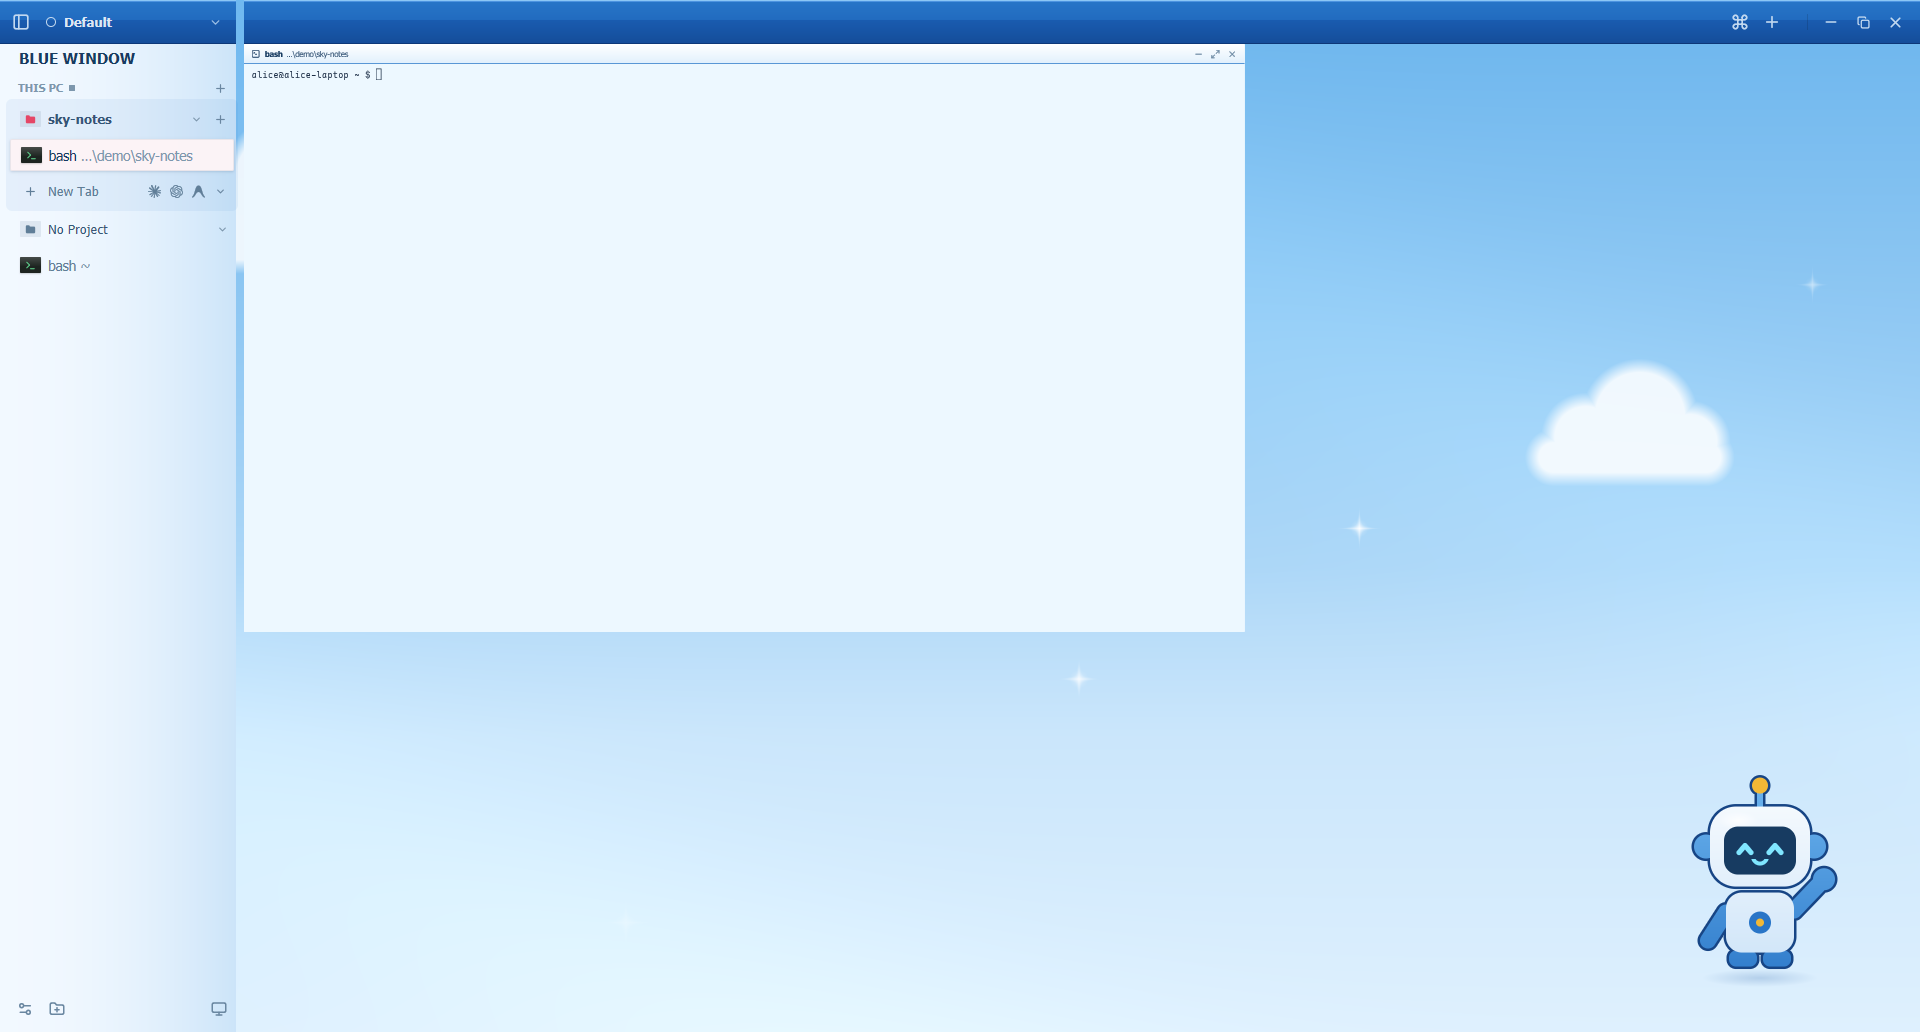
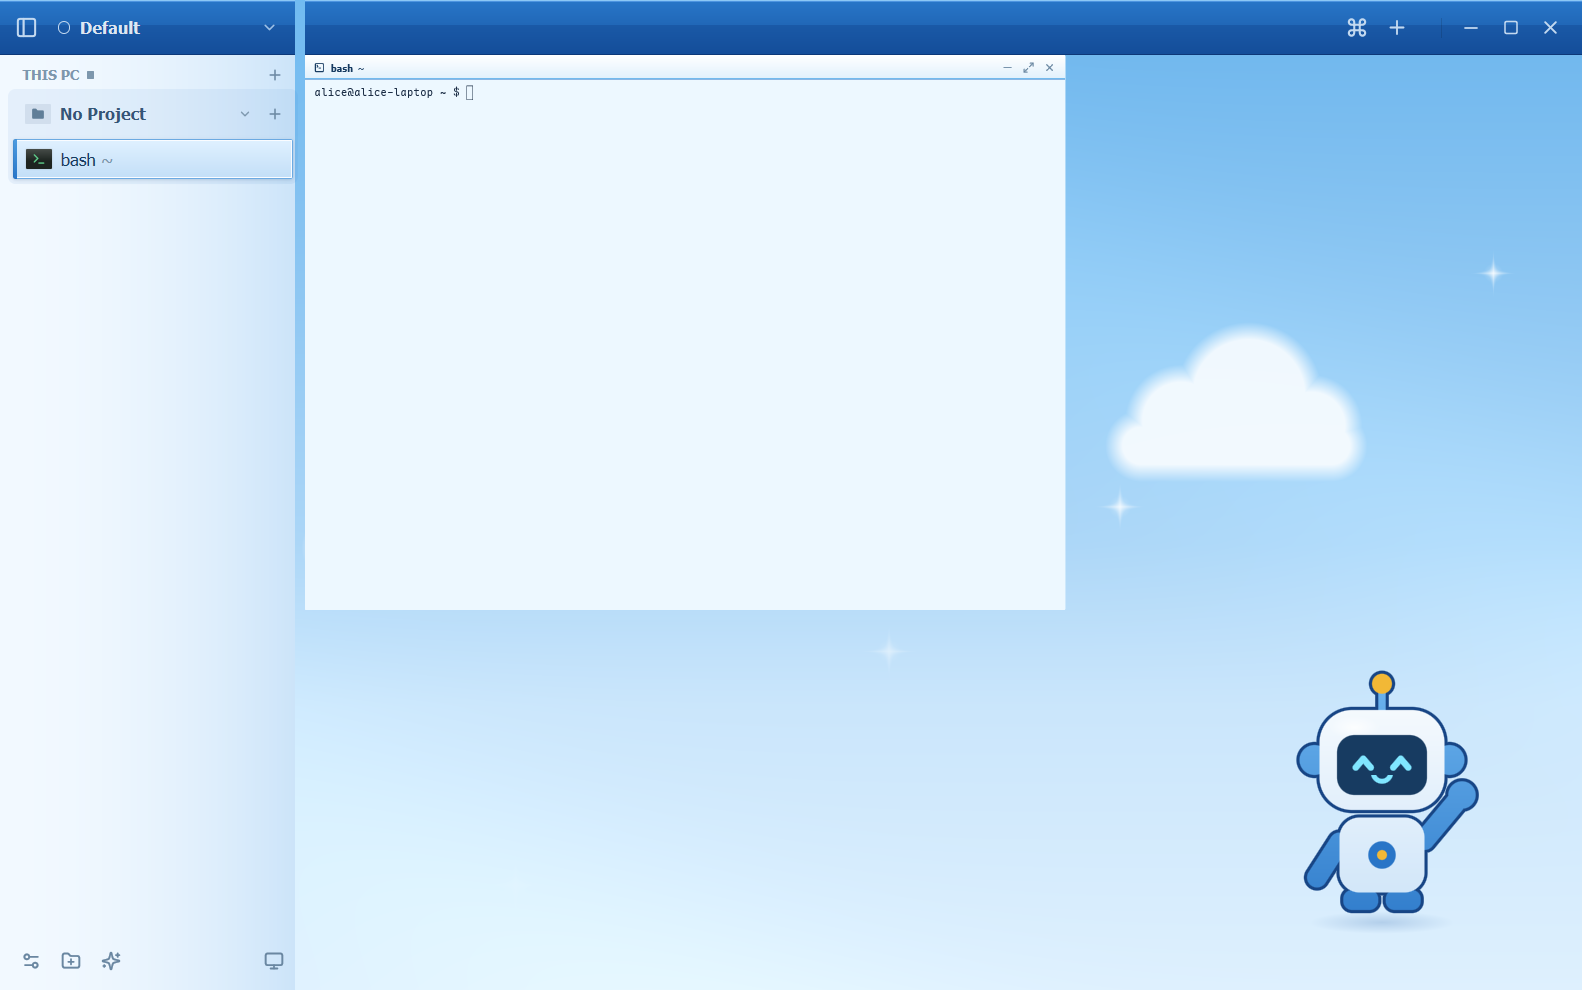
chore: require GoRex 0.62.0, drop brand, and update the screenshots
GoRex 0.62.0 removed the brand key (si-mods/gorex#1120) and drops it with a warning. Install from the registry so updates work. The screenshots show the shader API 2 look.

Changed region(s): [[0.0, 0.0, 1.0, 0.6667], [0.8053, 0.6667, 0.9602, 0.9697], [0.0, 0.9697, 0.031, 1.0]]

diff --git a/README.md b/README.md
@@ -4,8 +4,6 @@ A theme pack for [GoRex](https://github.com/si-mods/gorex): a 2007 desktop messe
 
 ![Blue Window](screenshots/canvas-light.png)
 
-![Blue Window](screenshots/tiled-light.png)
-
 The look follows the "Blue Window" preset of [codex-themes](https://github.com/freestylefly/codex-themes). The pack holds no image, code or text of that project: every picture in it is new art, drawn by the shaders in `assets/`. See [NOTICE](NOTICE).
 
 ## What it sets
@@ -14,16 +12,17 @@ The look follows the "Blue Window" preset of [codex-themes](https://github.com/f
 - Shaders: the window background (sky, clouds, sparkles, robot, and a soft light that follows the pointer over the sky), a glossy XP-blue title bar with white text, a light sidebar column, a chosen row with a blue accent bar and an inner border, and a pane header with a blue bottom line.
 - Roles: the faces above (the title bar flat color is `#2876c8`), `pane.border` in the accent at 50%, and `button.background` in the accent.
 - Metrics: corner scale 0.2, 1 DIP borders, Tahoma then Segoe UI, shadows at half size.
-- Glass off. Terminal: Lumina Rayleigh Light. Wordmark: BLUE WINDOW.
+- Glass off. Terminal: Lumina Rayleigh Light.
 
 ## Install
 
-This pack uses shader API version 2 (`"shaders": {"api": 2}`, docs/DSK-012-theme-shaders.md), so it needs a GoRex build with shader API 2: the next release after 0.61.0. An older build loads the colors and draws the faces and the background flat, with a warning.
+This pack uses shader API version 2 (`"shaders": {"api": 2}`, docs/DSK-012-theme-shaders.md), so it needs GoRex 0.62.0 or later. An older build loads the colors and draws the faces and the background flat, with a warning.
 
 ```sh
-git clone https://github.com/si-mods/gorex-theme-blue-window
 gorex pack install gorex-theme-blue-window
 ```
+
+This installs the pack from the [GoRex registry](https://github.com/si-mods/gorex-registry), so GoRex can update it later (`gorex pack update`).
 
 Then select **Blue Window** on the Extensions page of the settings, or set `"appearance.theme": "gorex-theme-blue-window"` in `settings.json`.
 
